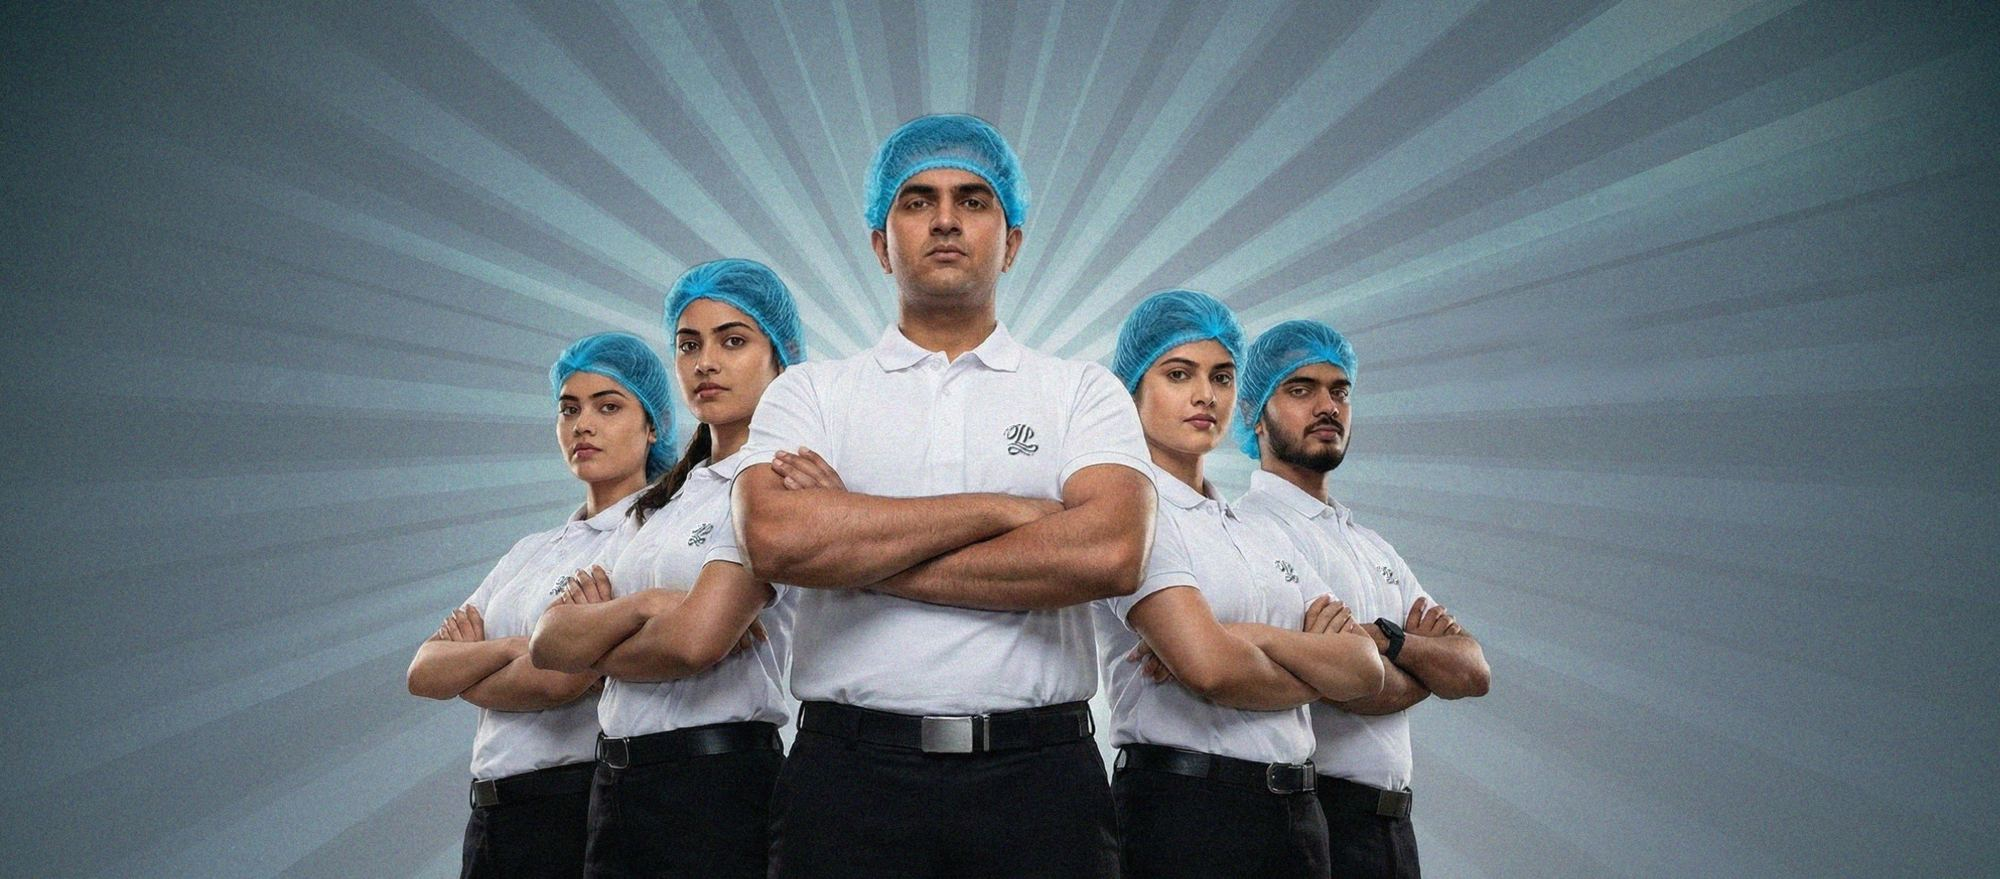
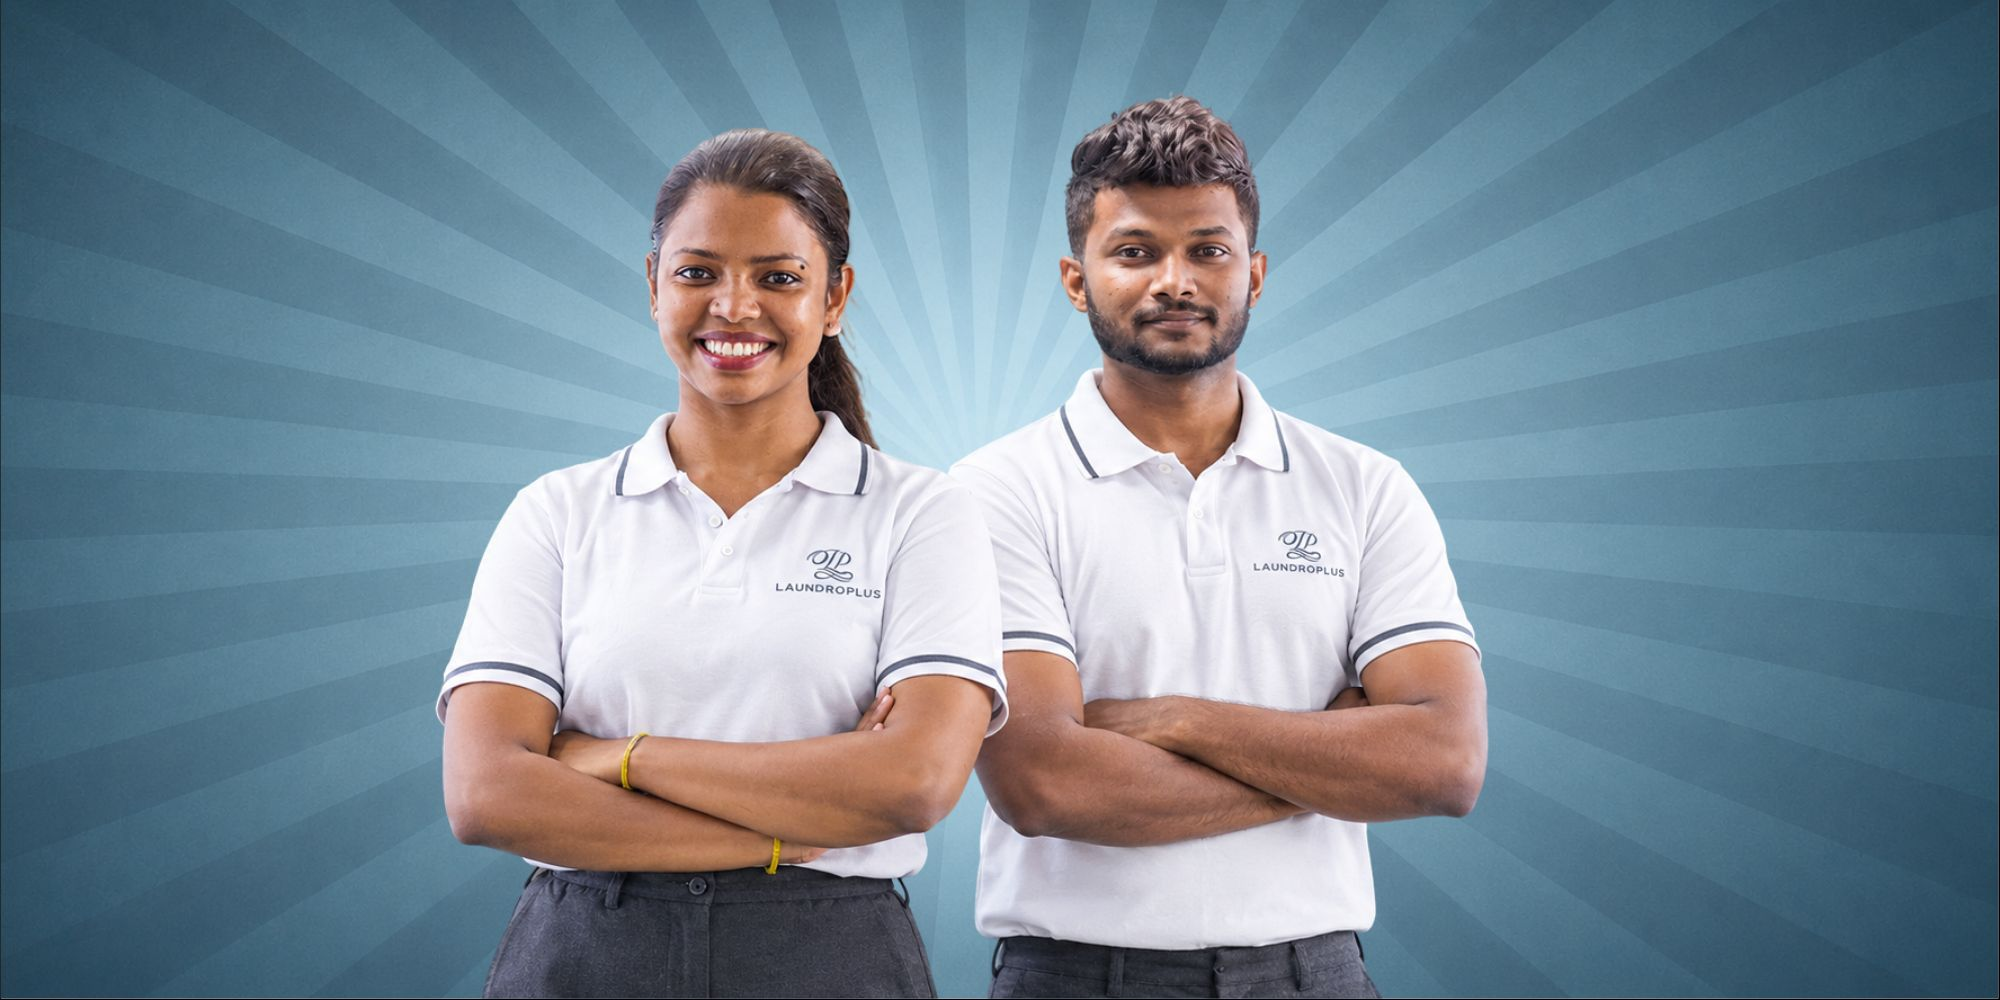
New team photo
Replaces the team section photo with the new two-person shot
(converted from the design export to light JPGs for computer and phone).
The previous photo is kept as banner-one-old and in the switched-off
hero banner list.

diff --git a/index.html b/index.html
@@ -104,6 +104,7 @@
       <picture><source media="(max-width:760px)" srcset="img/banner-three-sm.jpg"><img src="img/banner-three.jpg" alt=""></picture>
       <picture><source media="(max-width:760px)" srcset="img/banner-two-sm.jpg"><img src="img/banner-two.jpg" alt=""></picture>
       <picture><source media="(max-width:760px)" srcset="img/banner-one-sm.jpg"><img src="img/banner-one.jpg" alt=""></picture>
+      <picture><source media="(max-width:760px)" srcset="img/banner-one-old-sm.jpg"><img src="img/banner-one-old.jpg" alt=""></picture>
       -->
     </div>
     <div class="hero__content wrap">
